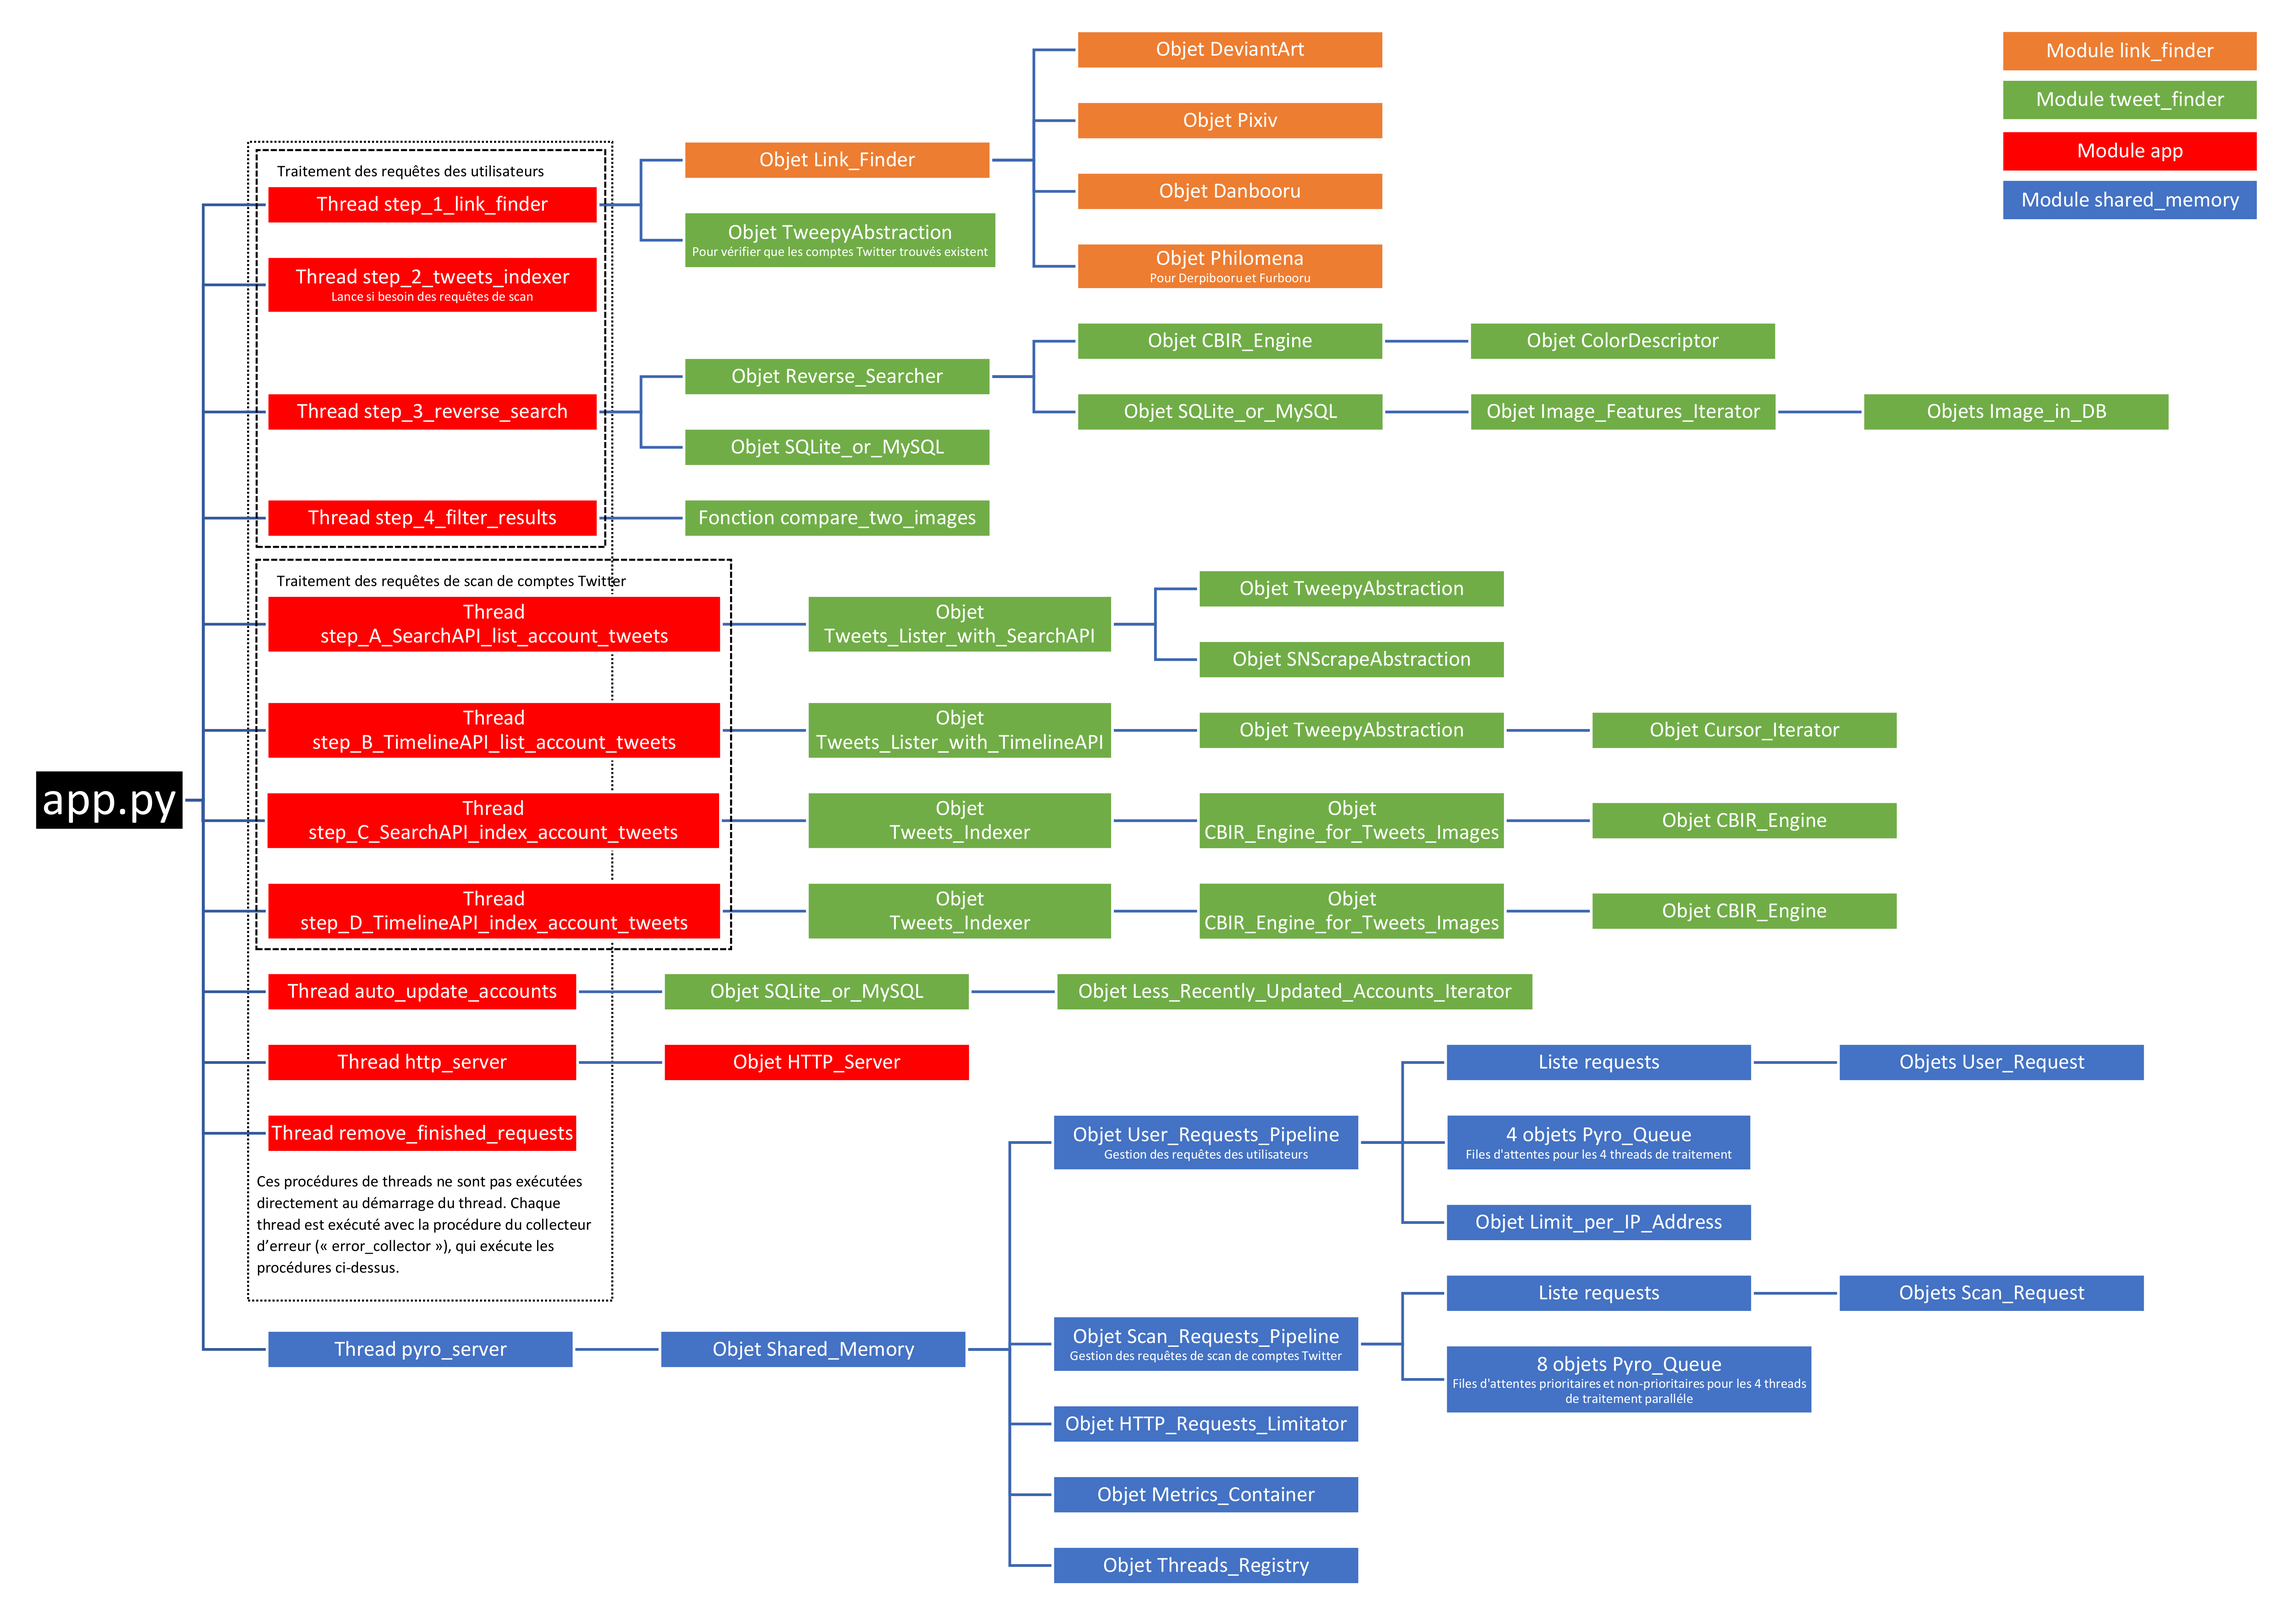
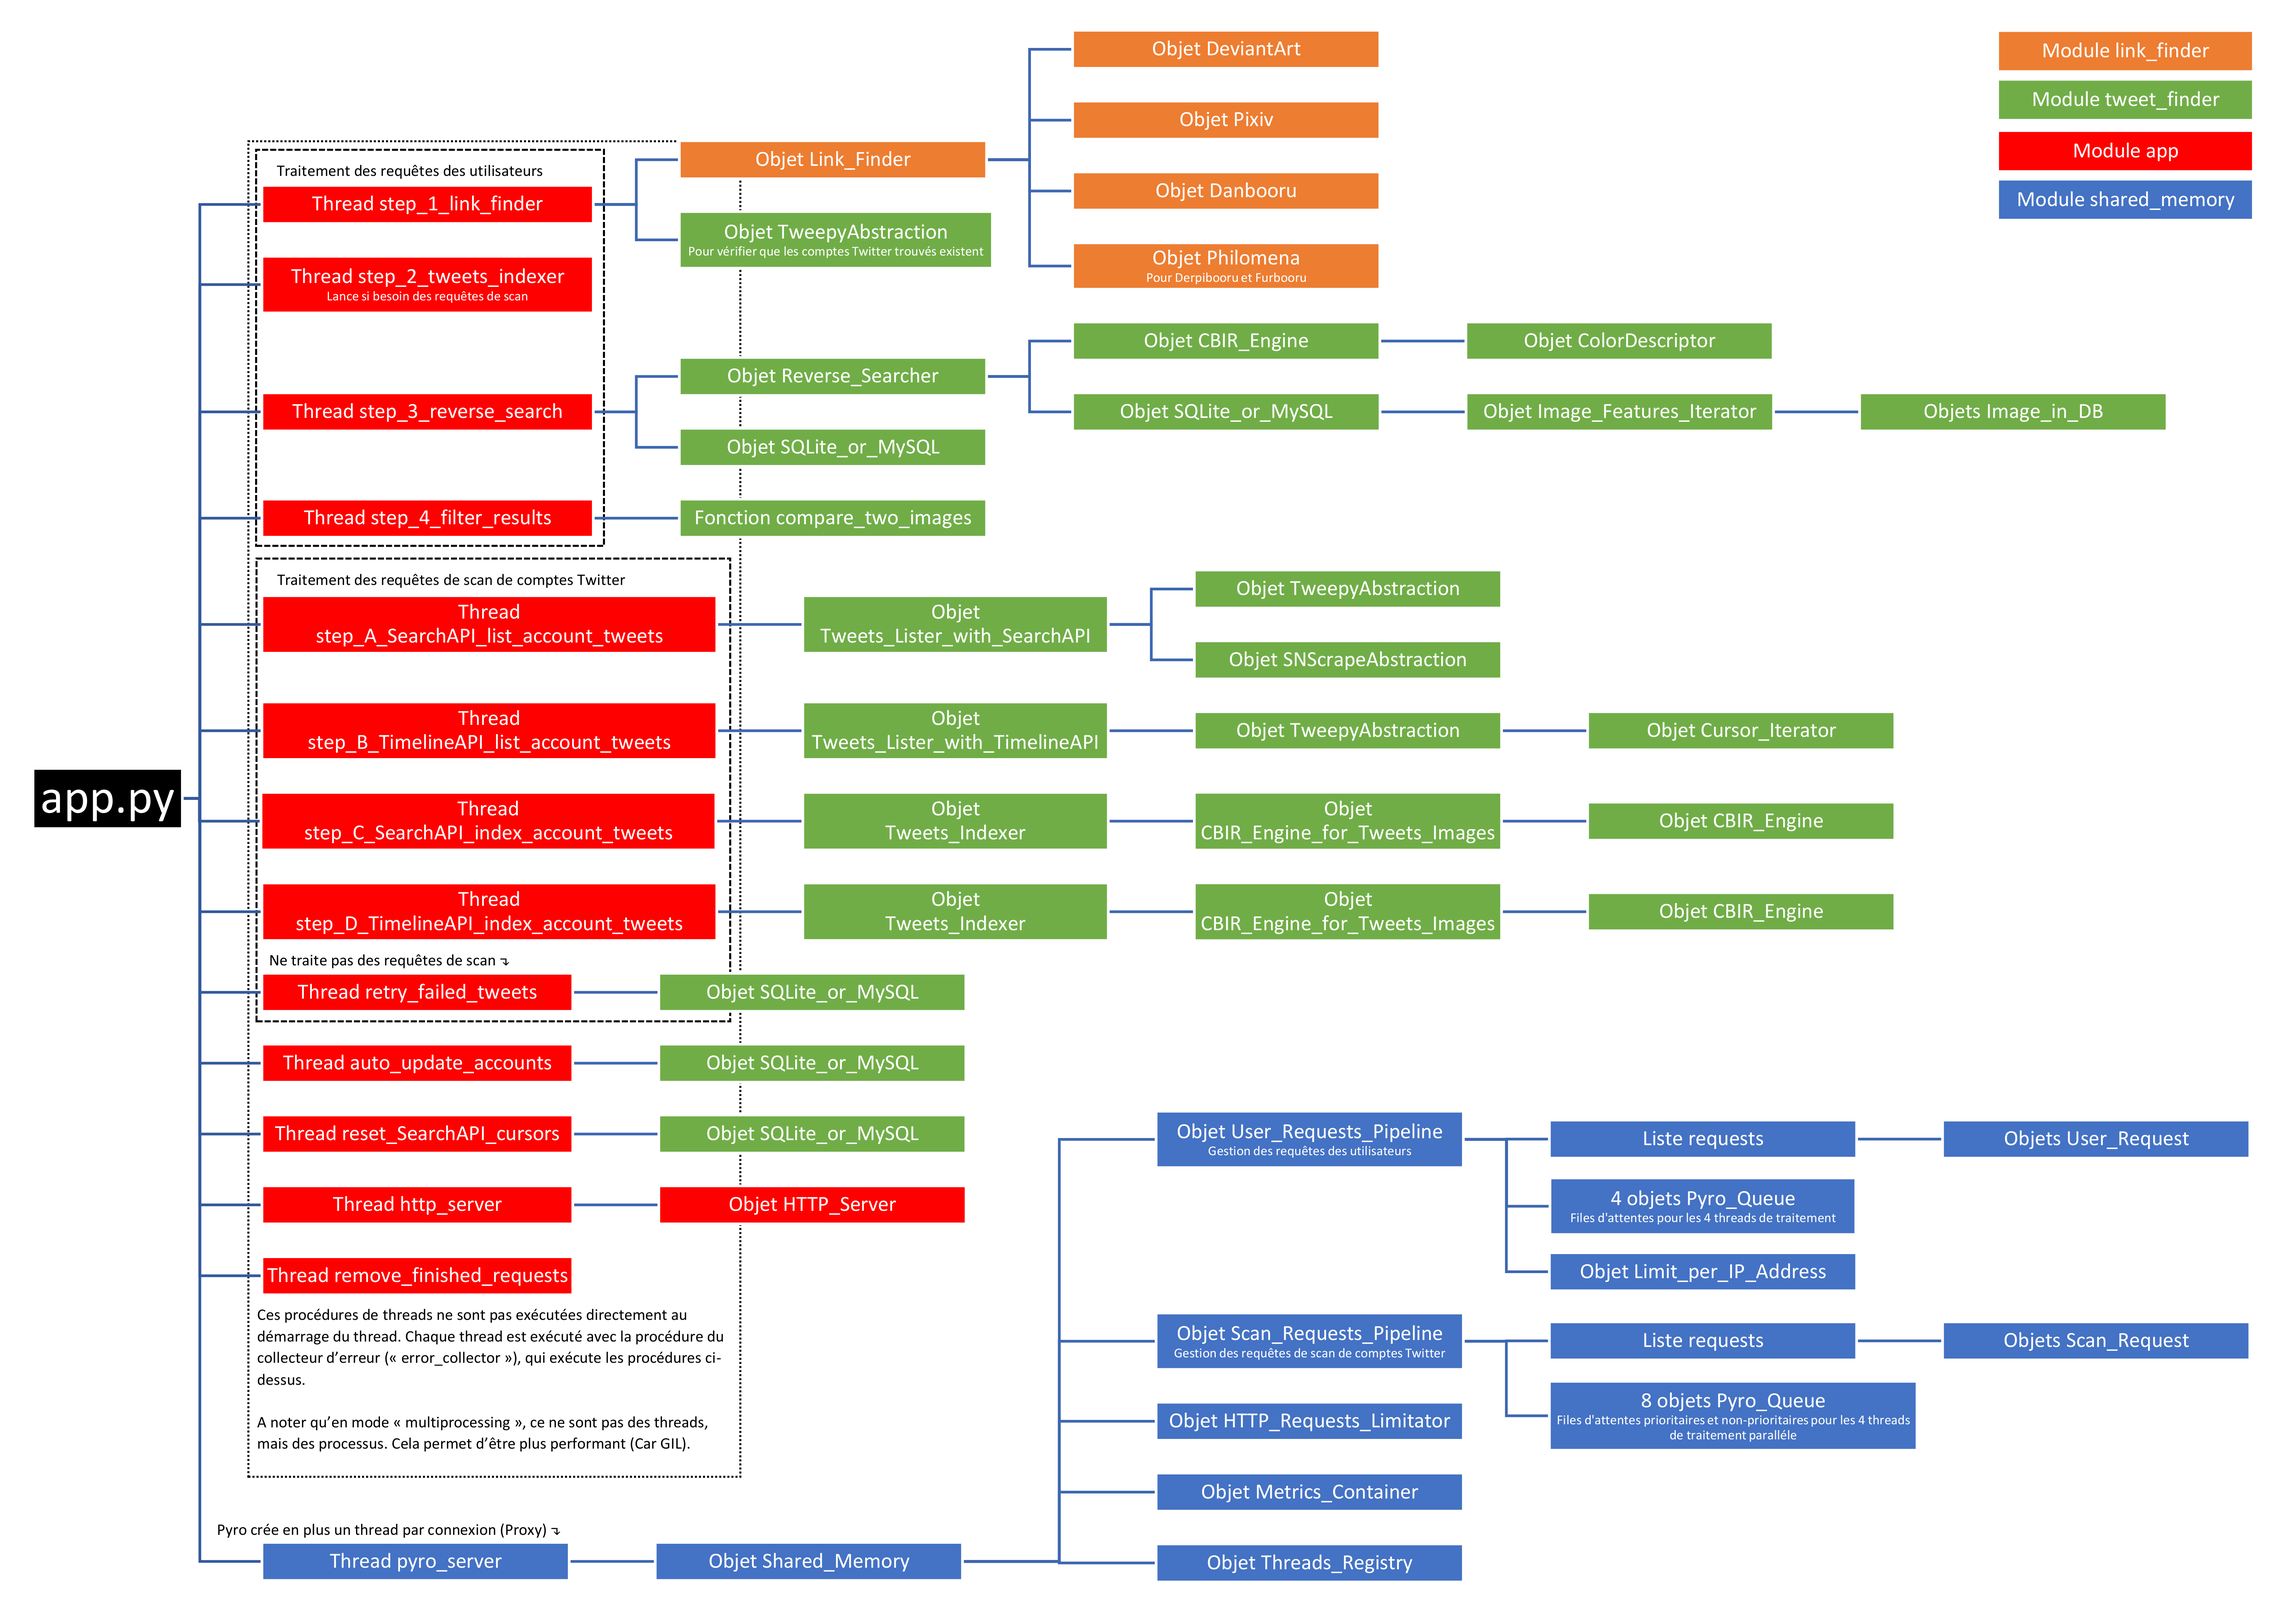
MàJ Architecture_du_serveur.png et documentation

diff --git a/server/app/README.md b/server/app/README.md
@@ -17,7 +17,8 @@ Les threads de traitement sont dans le sous-module `user_pipeline` et `scan_pipe
 
 - `thread_http_server` : Thread de serveur HTTP.
 - `thread_auto_update_accounts` : Thread de mise à jour automatique des comptes dans la base de données.
-- `thread_remove_finished_requests` : Thread de délestage des requêtes terminées. Elles sont conservées 24h.
+- `thread_remove_finished_requests` : Thread de délestage des requêtes terminées. Les requêtes utilisateurs sont conservées 1h, et les requêtes de scan 24h.
+- `thread_reset_SearchAPI_cursors` : Thread de suppression des curseurs d'indexation avec l'API de recherche, car l'indexation sur le moteur de recherche de Twitter est très fluctuante.
 
 - `error_collector` : Procédure conteneuse de chaque thread du serveur (Exécute les procédures ci-dessus). Permet de collecter les erreurs, de les enregistrer dans des fichiers, et de redémarrer le thread. Elle met aussi la requête en échec si le thread était en train de traiter une requête.
 

diff --git a/server/README.md b/server/README.md
@@ -46,6 +46,7 @@ Ceci lance le serveur et vous met en ligne de commande. Si vous souhaitez quitte
 * Thread de délestage automatique des anciennes requêtes terminées.
 * Thread de lancement de mises à jour automatiques des comptes Twitter dans la base de données.
 * Thread de retentative d'indexation de Tweets dont au moins une image a échouée (Et que cette erreur n'est pas identifiée comme insolvable dans le code, voir `get_tweet_image()`).
+* Thread de suppression des curseurs d'indexation avec l'API de recherche, car l'indexation sur le moteur de recherche de Twitter est très fluctuante.
 * Collecteur d'erreurs : Tous les threads sont éxécuté dans une instance du collecteur d'erreurs. Stocke l'erreur dans un fichier, met l'éventuelle requête en cours de traitement en situation d'erreur / échec, et redémarre le thread.
 
 
